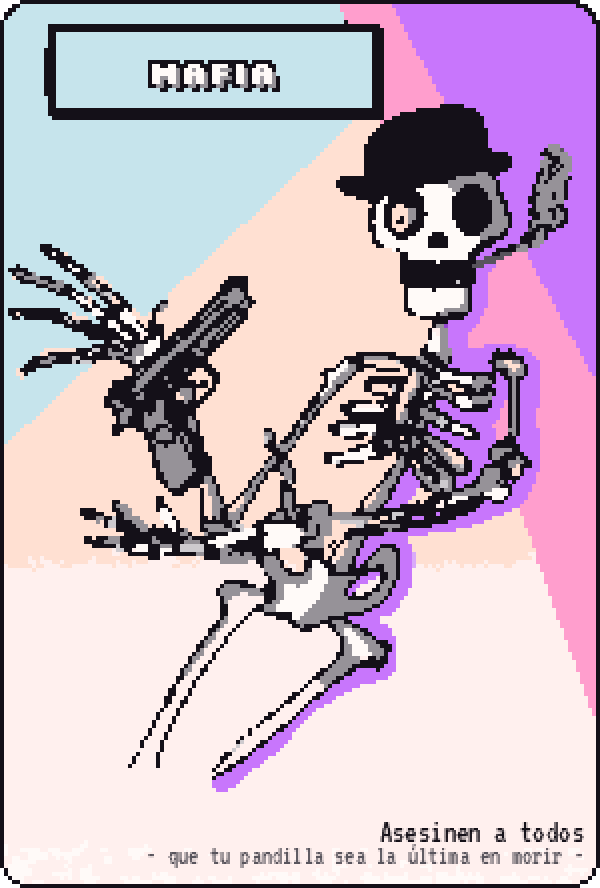
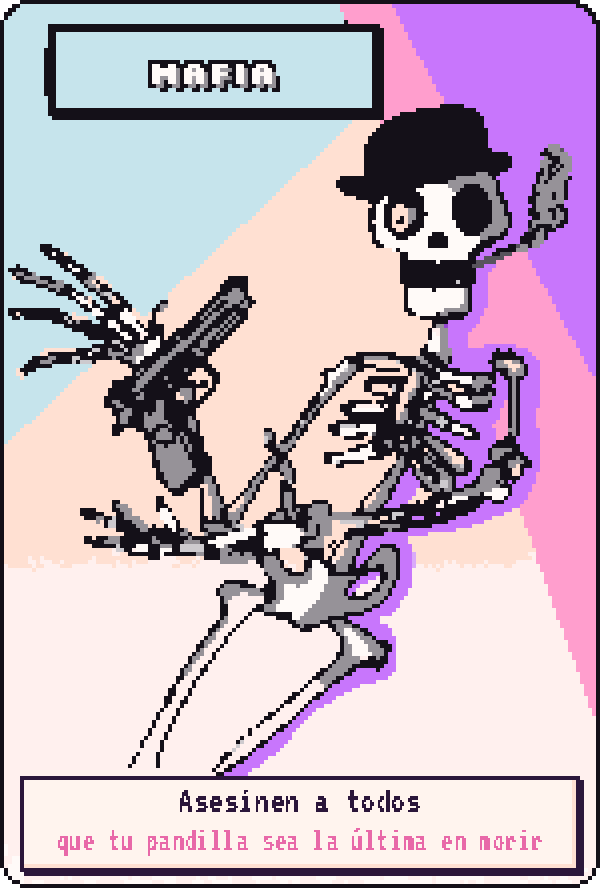
Mafia: cartas fieles pulidas (dorso de las redibujadas y texto en caja)
El dorso es el de la v3 (estrellas rosa y lila con la placa MAFIA), armado al
tamaño de las cartas fieles. El texto de cada carta va en una caja crema con borde
ciruela, como en la v3. El cartel de pareja/aviso del jugador pasa abajo de la carta
para no tapar el texto. sw.js v17.

Claude-Session: https://claude.ai/code/session_01QoSXnxvBfAxFxH76wCvKwx

Changed region(s): [[0.03, 0.8514, 0.99, 1.0]]

diff --git a/juegos/mafia/index.html b/juegos/mafia/index.html
@@ -71,13 +71,13 @@ html.grande .mesa{grid-template-columns:repeat(auto-fill,minmax(104px,1fr))}
 .cuentaMazo.mal{color:var(--mal)}
 
 /* carta del jugador */
-.cartaYo{position:relative;width:min(72vw,300px);align-self:center;user-select:none;-webkit-user-select:none;-webkit-touch-callout:none;touch-action:none;cursor:pointer}
+.cartaYo{position:relative;width:min(72vw,300px);align-self:center;margin-bottom:34px;user-select:none;-webkit-user-select:none;-webkit-touch-callout:none;touch-action:none;cursor:pointer}
 html.grande .cartaYo{width:min(86vw,360px)}
 .cartaYo img{width:100%;border-radius:10px;filter:drop-shadow(0 10px 22px #000c)}
 .cartaYo .cara{position:absolute;inset:0;opacity:0}
 .cartaYo.ver .cara{opacity:1}
 .cartaYo.ver .dorso{opacity:0}
-.cartaYo .pie{position:absolute;left:6%;right:6%;bottom:-14px;background:var(--acc);color:var(--acc-txt);border:3px solid var(--out);border-radius:10px;padding:6px 8px;font-weight:900;text-align:center;font-size:.95rem;opacity:0}
+.cartaYo .pie{position:absolute;left:6%;right:6%;top:calc(100% + 6px);background:var(--acc);color:var(--acc-txt);border:3px solid var(--out);border-radius:10px;padding:6px 8px;font-weight:900;text-align:center;font-size:.95rem;opacity:0}
 .cartaYo.ver .pie:not(:empty){opacity:1}
 .ayuda{text-align:center;color:var(--sub);font-size:.9rem;margin:6px 0 0}
 .estado{text-align:center;font-weight:900;font-size:1.15rem}

diff --git a/sw.js b/sw.js
@@ -1,6 +1,6 @@
 // Service worker de la Juegoteca.
 // Al agregar un juego propio nuevo, sumá su carpeta a PROPIOS y subí VERSION.
-const VERSION = "v16";
+const VERSION = "v17";
 const CACHE = "juegoteca-" + VERSION;
 const PROPIOS = [
   "./",
